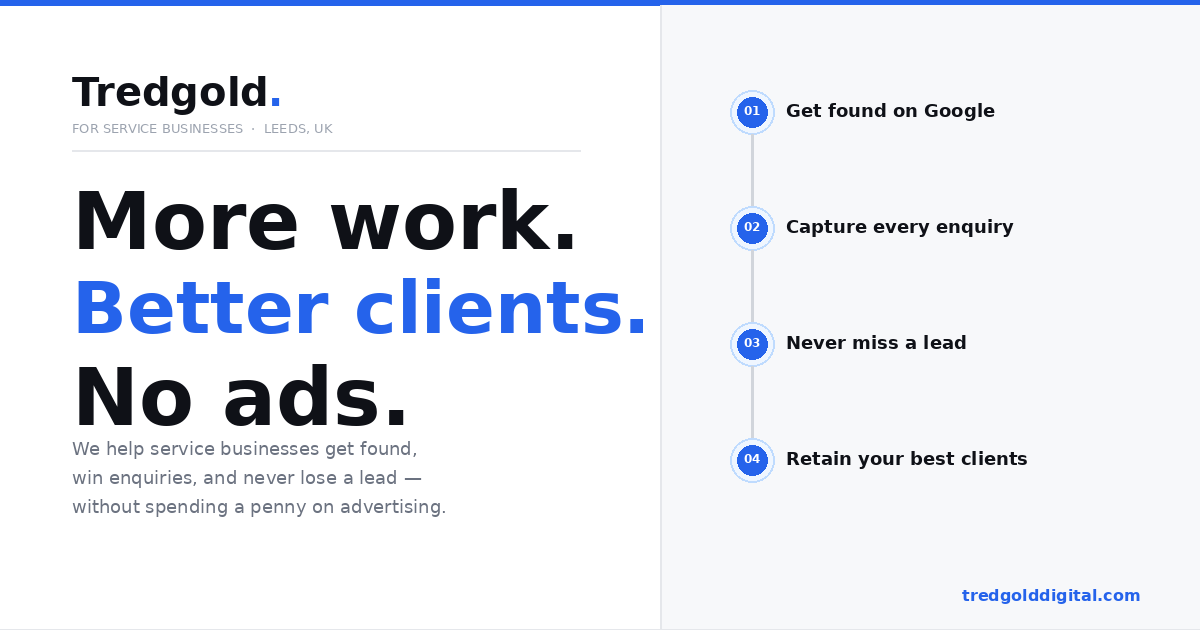
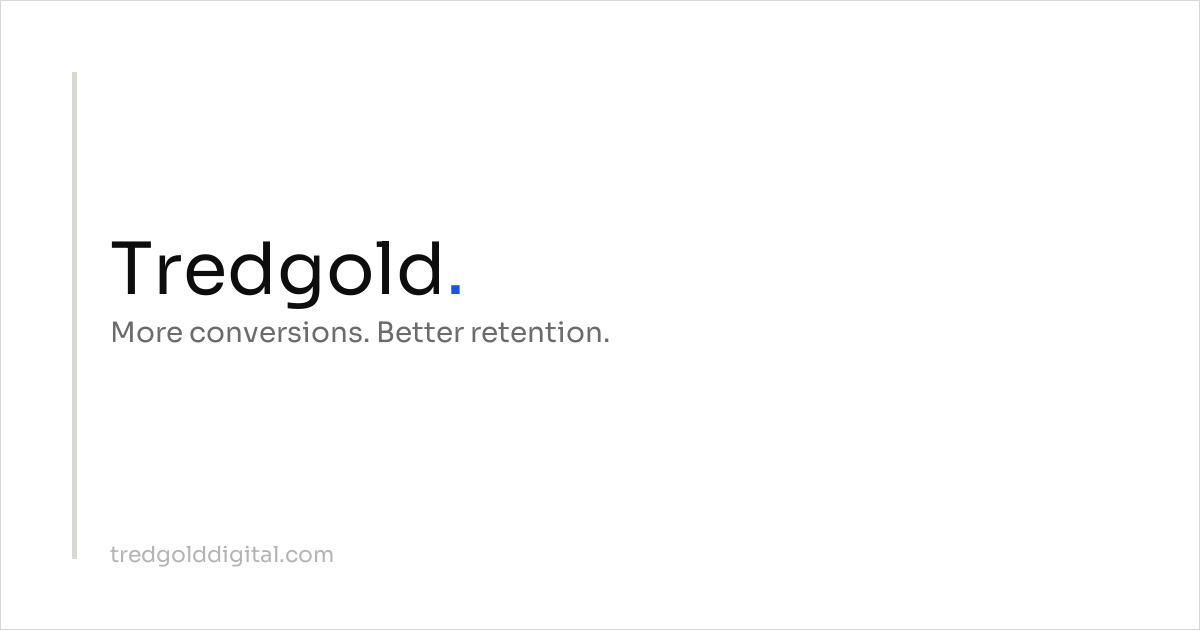
Add OG image and fix social/SEO meta tags
- Generated 1200×630 og-image.png with Sora font matching navbar branding
- Added og:title, og:description, og:image, og:site_name, og:type
- Added twitter:card (summary_large_image), twitter:title, twitter:description, twitter:image
- Shortened <title> and <meta description> to fit Google/social truncation limits

diff --git a/index.html b/index.html
@@ -3,10 +3,26 @@
 <head>
   <meta charset="UTF-8" />
   <meta name="viewport" content="width=device-width, initial-scale=1.0" />
-  <title>Win More Work. Keep Your Best Customers. | Tredgold Digital — Leeds, UK</title>
-  <meta name="description" content="Tredgold Digital removes friction from customer journeys — enquiry forms, booking systems, SaaS products and AI tools that help businesses convert more and retain the clients worth keeping." />
+  <title>Win More Work. Keep Your Best Customers. | Tredgold Digital</title>
+  <meta name="description" content="Remove friction from your customer journey. Websites, booking systems, SaaS and AI tools that help UK businesses convert more and keep the clients worth keeping." />
   <link rel="canonical" href="https://www.tredgolddigital.com/" />
   <link rel="icon" type="image/png" href="/favicon.png" />
+
+  <!-- Open Graph -->
+  <meta property="og:type"        content="website" />
+  <meta property="og:url"         content="https://www.tredgolddigital.com/" />
+  <meta property="og:site_name"   content="Tredgold Digital" />
+  <meta property="og:title"       content="Win More Work. Keep Your Best Customers." />
+  <meta property="og:description" content="Remove friction from your customer journey. Websites, booking systems, SaaS and AI tools that help UK businesses convert more and keep the clients worth keeping." />
+  <meta property="og:image"       content="https://www.tredgolddigital.com/og-image.png" />
+  <meta property="og:image:width"  content="1200" />
+  <meta property="og:image:height" content="630" />
+
+  <!-- Twitter / X -->
+  <meta name="twitter:card"        content="summary_large_image" />
+  <meta name="twitter:title"       content="Win More Work. Keep Your Best Customers." />
+  <meta name="twitter:description" content="Remove friction from your customer journey. Websites, booking systems, SaaS and AI tools that help UK businesses convert more and keep the clients worth keeping." />
+  <meta name="twitter:image"       content="https://www.tredgolddigital.com/og-image.png" />
 
   <link rel="preconnect" href="https://fonts.googleapis.com" />
   <link rel="preconnect" href="https://fonts.gstatic.com" crossorigin />